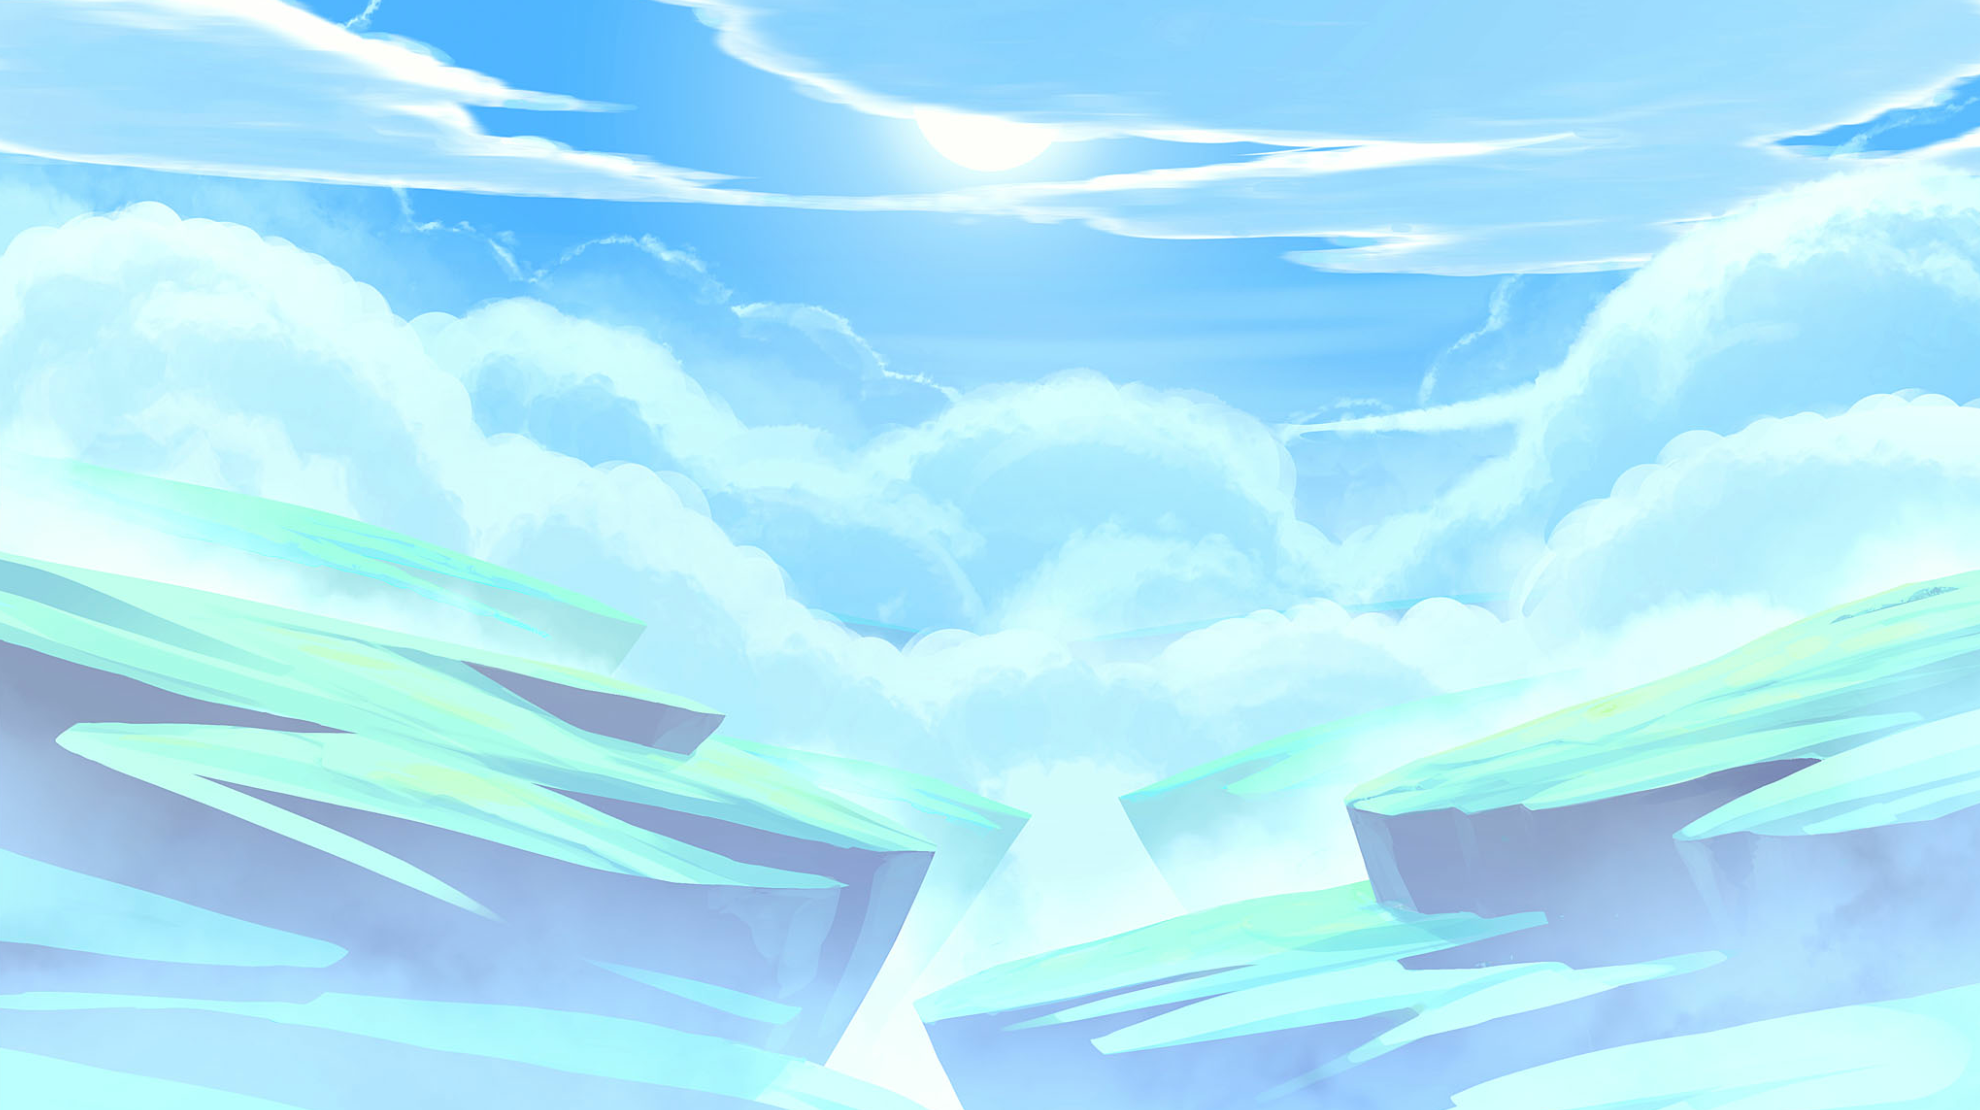
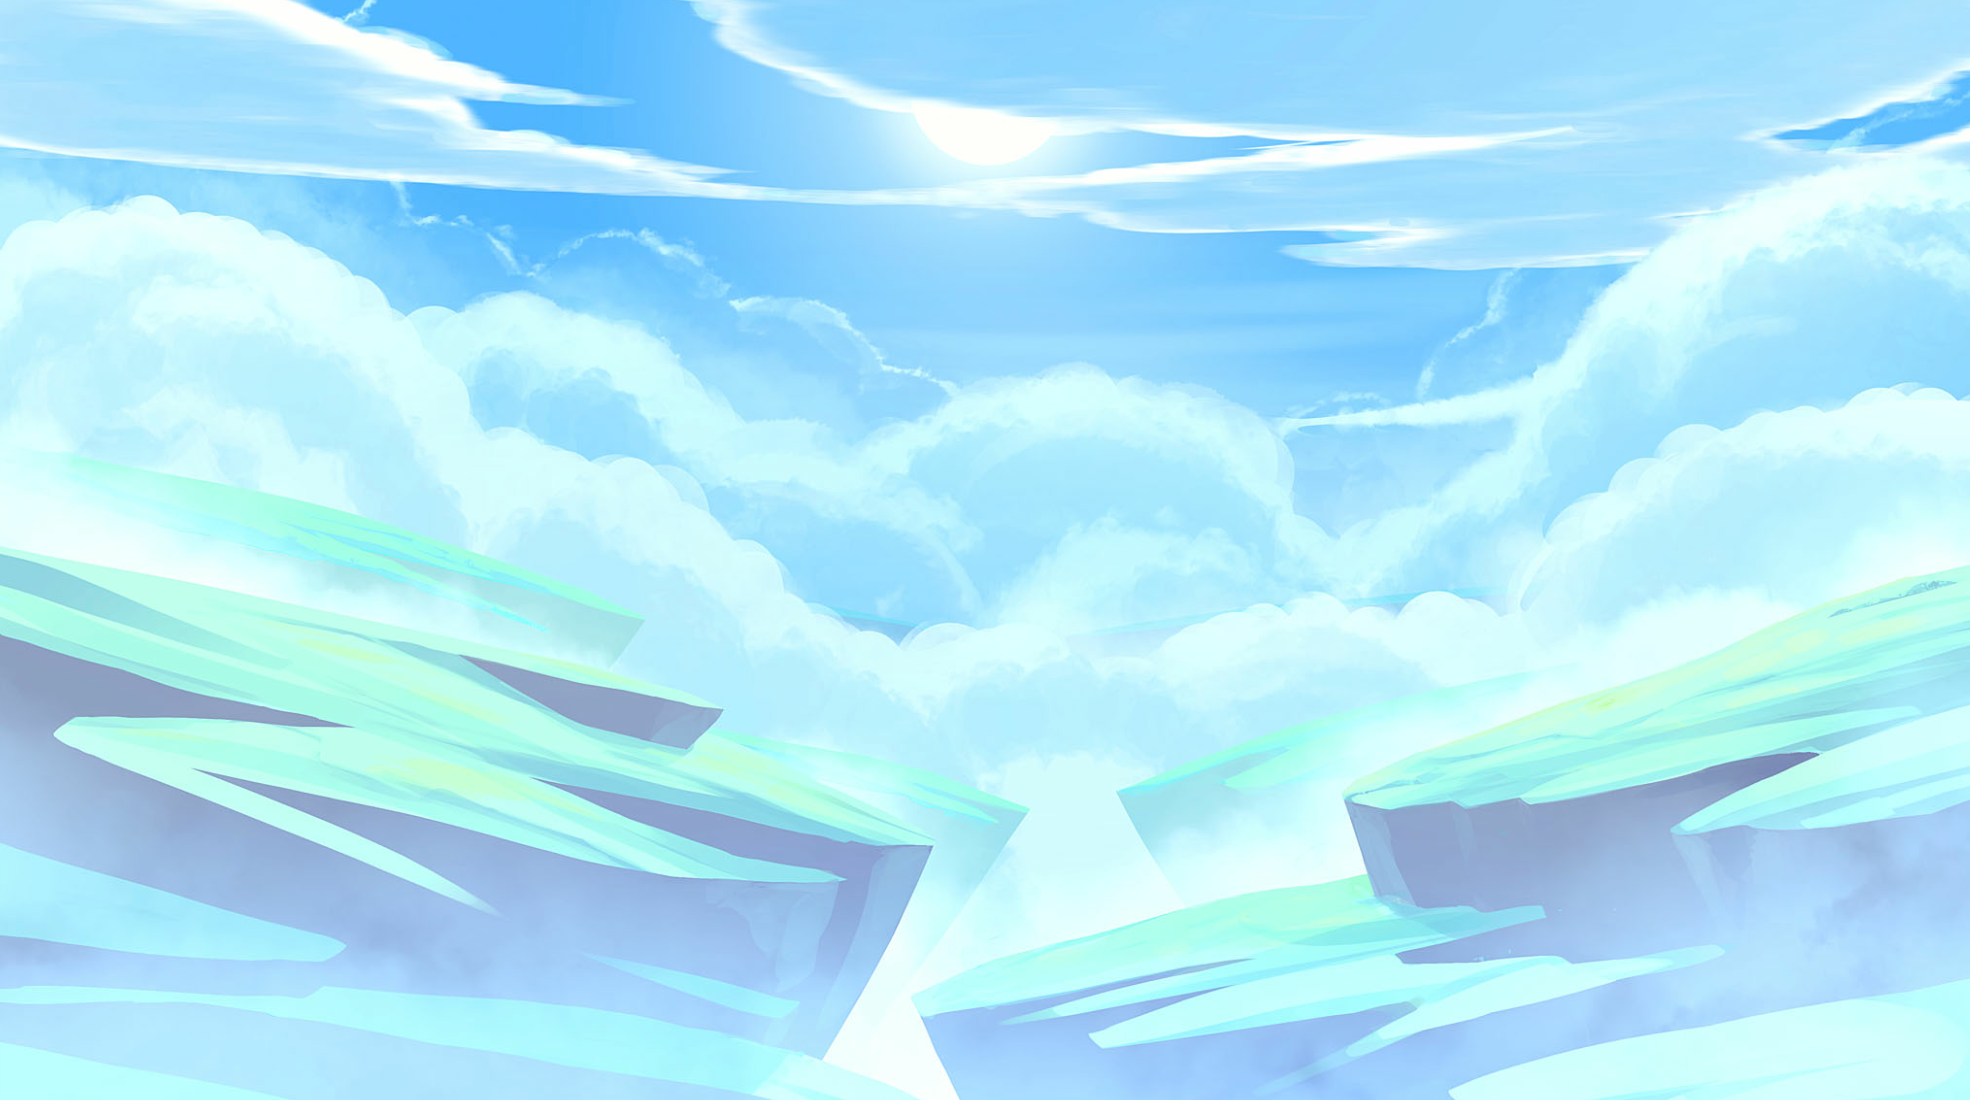
add platform class

diff --git a/core/src/com/platformer/game/MyGame.java b/core/src/com/platformer/game/MyGame.java
@@ -8,22 +8,15 @@ import com.badlogic.gdx.graphics.g2d.Animation;
 import com.badlogic.gdx.graphics.g2d.SpriteBatch;
 import com.badlogic.gdx.graphics.g2d.TextureRegion;
 import com.badlogic.gdx.utils.ScreenUtils;
+import com.platformer.game.models.Platform;
 
 public class MyGame extends ApplicationAdapter {
 
     public final static int CHARACTER_WIDTH = 64;
     public final static int CHARACTER_HEIGHT = 64;
-    // Game constants
-    public final static int MAP_SIDE = 19;
-    public final static int MAP_CENTER = MAP_SIDE / 2;
     public final static int BACKGROUND_TILE_WIDTH = 16;
-    public final static int BACKGROUND_TILE_HEIGHT = 16;
-    public final static int MAP_CELL_TILE_COUNT_X = 4;
-    public final static int MAP_CELL_TILE_COUNT_Y = 3;
-    public final static int MAP_CELL_WIDTH = MAP_CELL_TILE_COUNT_X * BACKGROUND_TILE_WIDTH;
-    public final static int MAP_CELL_HEIGHT = MAP_CELL_TILE_COUNT_Y * BACKGROUND_TILE_HEIGHT;
-    private final static int PLATFORM_WIDTH = 465;
-    private final static int PLATFORM_HEIGHT = 172;
+    private final static int PLATFORM_WIDTH = 1978;
+    private final static int PLATFORM_HEIGHT = 897;
     private final float CHARACTER_SPEED = 150f;
     private final float CHARACTER_ANIM_SPEED = .1f;
     private final int DIRECTIONS = 4;
@@ -57,32 +50,42 @@ public class MyGame extends ApplicationAdapter {
 
     private Texture backgroundTexture;
 
-    @Override
-    public void create() {
+    private int anim = -1;
+    private float newPlatformHeight;
+    private float newPlatformWidth;
+
+    private Platform p;
+
+    private void loadTextures() {
         txCharacter = new Texture("character.png");
         txrCharacterTiles = TextureRegion.split(txCharacter, CHARACTER_WIDTH, CHARACTER_HEIGHT);
+        txPlatform = new Texture("platform.png");
+        txrPlatformTiles = TextureRegion.split(txPlatform, PLATFORM_WIDTH, PLATFORM_HEIGHT);
+        backgroundTexture = new Texture("background.png");
+    }
 
+    private void createAnimations() {
         animCharacter = new Animation[DIRECTIONS];
         for (int i = 0; i < animCharacter.length; i++) {
-            animCharacter[i] = new Animation<TextureRegion>(CHARACTER_ANIM_SPEED, txrCharacterTiles[i]);
+            animCharacter[i] = new Animation<>(CHARACTER_ANIM_SPEED, txrCharacterTiles[i]);
         }
 
-        txPlatform = new Texture("platforme.png");
-        txrPlatformTiles = TextureRegion.split(txPlatform, PLATFORM_WIDTH, PLATFORM_HEIGHT);
         animPlatform = new Animation[PLATFORME_FRAME];
         for (int i = 0; i < animPlatform.length; i++) {
-            animPlatform[i] = new Animation<TextureRegion>(PLATFORM_ANIM_SPEED, txrPlatformTiles[i]);
+            animPlatform[i] = new Animation<>(PLATFORM_ANIM_SPEED, txrPlatformTiles[i]);
         }
-
-        backgroundTexture = new Texture("background.png");
-
-        batch = new SpriteBatch();
     }
 
     @Override
-    public void render() {
-        ScreenUtils.clear(0, 0, 0, 1);
+    public void create() {
+        loadTextures();
+        createAnimations();
 
+        p = new Platform("platform.png", PLATFORM_WIDTH, PLATFORM_HEIGHT, 10, 25, 25);
+        batch = new SpriteBatch();
+    }
+
+    private void updateCharacter(float dt) {
         int dx = 0;
 
         if (Gdx.input.isKeyPressed(LEFT_KEY) || Gdx.input.isKeyPressed(RIGHT_KEY))
@@ -98,8 +101,7 @@ public class MyGame extends ApplicationAdapter {
             velocityY = JUMP_SPEED;
         }
 
-        int anim = -1;
-        float dt = Gdx.graphics.getDeltaTime();
+        anim = -1;
 
         // Apply gravity and fast fall force
         float gravityForce = GRAVITY;
@@ -129,51 +131,70 @@ public class MyGame extends ApplicationAdapter {
 
         time += dt;
 
-        // Update platform animation state
-        platformAnimTime += dt;
-
-        float screenWidth = Gdx.graphics.getWidth();
-        float screenHeight = Gdx.graphics.getHeight();
-
-        batch.begin();
-
-        batch.draw(backgroundTexture, 0, 0, screenWidth, screenHeight);
-
-        // Render the animated platform
-        TextureRegion txrCurrentPlatform = animPlatform[(int) (platformAnimTime / PLATFORM_ANIM_SPEED) % PLATFORME_FRAME].getKeyFrame(platformAnimTime, true);
-        float newPlatformWidth = (float) PLATFORM_WIDTH / 2;
-        float newPlatformHeight = (float) PLATFORM_HEIGHT / 2;
-        platformX = (Gdx.graphics.getWidth() - newPlatformWidth) / 2;
-        platformY = (float) Gdx.graphics.getHeight() / 2 - newPlatformHeight;
-        batch.draw(txrCurrentPlatform, platformX, platformY, newPlatformWidth, newPlatformHeight);
-
-        // Render the character
-        TextureRegion txrCharacter = anim < 0 ? txrCharacterTiles[stop][0] : animCharacter[stop = anim].getKeyFrame(time, true);
-
-        batch.draw(txrCharacter, characterX - (float) BACKGROUND_TILE_WIDTH / 2, characterY);
-
-        batch.end();
-
         // Check if the character is on the platform
         boolean isCharRightOfPlatformLeftEdge = characterX + CHARACTER_WIDTH > platformX + 20;
         boolean isCharLeftOfPlatformRightEdge = characterX < platformX + newPlatformWidth - 10;
         boolean isCharAbovePlatformBottomEdge = characterY <= platformY + newPlatformHeight;
         boolean isCharBelowPlatformTopEdge = characterY + CHARACTER_HEIGHT >= platformY;
-        boolean wasCharAbovePlatformTopEdge = characterY - Math.abs(velocityY * dt) + CHARACTER_HEIGHT < platformY;
 
-        if (isCharRightOfPlatformLeftEdge &&
-                isCharLeftOfPlatformRightEdge &&
-                isCharAbovePlatformBottomEdge &&
-                isCharBelowPlatformTopEdge &&
-                velocityY <= 0) {
+        if (isCharRightOfPlatformLeftEdge && isCharLeftOfPlatformRightEdge && isCharAbovePlatformBottomEdge && isCharBelowPlatformTopEdge && velocityY <= 0) {
             characterY = platformY + newPlatformHeight;
             isJumping = false;
             velocityY = 0;
             jumpCount = 0;
         }
 
+        if (p.isCharacterOnIt(characterX, characterY, CHARACTER_WIDTH, CHARACTER_HEIGHT)) {
+            characterY = p.getPercentToLeft() + p.getHeight();
+            isJumping = false;
+            velocityY = 0;
+            jumpCount = 0;
+        }
     }
 
+
+    private void renderBackground() {
+        float screenWidth = Gdx.graphics.getWidth();
+        float screenHeight = Gdx.graphics.getHeight();
+        batch.draw(backgroundTexture, 0, 0, screenWidth, screenHeight);
+    }
+
+    private void renderPlatformA(float dt) {
+        platformAnimTime += dt;
+        TextureRegion txrCurrentPlatform = animPlatform[(int) (platformAnimTime / PLATFORM_ANIM_SPEED) % PLATFORME_FRAME].getKeyFrame(platformAnimTime, true);
+        newPlatformWidth = (float) PLATFORM_WIDTH / 10;
+        newPlatformHeight = (float) PLATFORM_HEIGHT / 10;
+        platformX = (Gdx.graphics.getWidth() - newPlatformWidth) / 2;
+        platformY = (float) Gdx.graphics.getHeight() / 2 - newPlatformHeight;
+        batch.draw(txrCurrentPlatform, platformX, platformY, newPlatformWidth, newPlatformHeight);
+    }
+
+    private void renderPlatformB(float dt) {
+        platformAnimTime += dt;
+        p.render(batch, platformAnimTime);
+    }
+
+    private void renderCharacter() {
+        TextureRegion txrCharacter = anim < 0 ? txrCharacterTiles[stop][0] : animCharacter[stop = anim].getKeyFrame(time, true);
+        batch.draw(txrCharacter, characterX - (float) BACKGROUND_TILE_WIDTH / 2, characterY);
+    }
+
+    @Override
+    public void render() {
+        ScreenUtils.clear(0, 0, 0, 1);
+        float dt = Gdx.graphics.getDeltaTime();
+
+        updateCharacter(dt);
+
+        batch.begin();
+
+        renderBackground();
+        renderPlatformA(dt);
+        renderPlatformB(dt);
+        renderCharacter();
+
+        batch.end();
+    }
 
     @Override
     public void dispose() {

diff --git a/core/src/com/platformer/game/models/Platform.java b/core/src/com/platformer/game/models/Platform.java
@@ -1,0 +1,68 @@
+package com.platformer.game.models;
+
+import com.badlogic.gdx.Gdx;
+import com.badlogic.gdx.graphics.Texture;
+import com.badlogic.gdx.graphics.g2d.Animation;
+import com.badlogic.gdx.graphics.g2d.SpriteBatch;
+import com.badlogic.gdx.graphics.g2d.TextureRegion;
+
+public class Platform {
+    private final int PLATFORME_FRAME = 5;
+    private final float PLATFORM_ANIM_SPEED = .3f;
+    private final float width;
+    private final float height;
+    private final float percentToBottom;
+    private final float percentToLeft;
+    private TextureRegion txrCurrentPlatform;
+    private final Animation<TextureRegion>[] animPlatform;
+    private final Texture txPlatform;
+    private final TextureRegion[][] txrPlatformTiles;
+
+    public Platform(String fileName, int width, int height, int scale, int x, int y) {
+        if (fileName == null) {
+            throw new IllegalArgumentException("fileName cannot be null");
+        }
+
+        if (width <= 0 || height <= 0 || scale <= 0 || x < 0 || y < 0) {
+            throw new IllegalArgumentException("width, height, scale, x, y cannot be less than 0");
+        }
+
+        txPlatform = new Texture(fileName);
+        txrPlatformTiles = TextureRegion.split(txPlatform, width, height);
+
+        this.animPlatform = new Animation[PLATFORME_FRAME];
+        for (int i = 0; i < animPlatform.length; i++) {
+            animPlatform[i] = new Animation<>(PLATFORM_ANIM_SPEED, txrPlatformTiles[i]);
+        }
+
+        this.width = ((float) width / scale);
+        this.height = ((float) height / scale);
+        this.percentToBottom = (Gdx.graphics.getWidth() - this.width) / 100 * x;
+        this.percentToLeft = (float) (Gdx.graphics.getHeight() / 100 * y) - this.height;
+    }
+
+    public void render(SpriteBatch batch, float time) {
+        TextureRegion txrCurrentPlatform = animPlatform[(int) (time / PLATFORM_ANIM_SPEED) % PLATFORME_FRAME].getKeyFrame(time, true);
+        batch.draw(txrCurrentPlatform, this.percentToBottom, this.percentToLeft, this.width, this.height);
+    }
+
+    public float getWidth() {
+        return width;
+    }
+
+    public float getHeight() {
+        return height;
+    }
+
+    public float getPercentToBottom() {
+        return percentToBottom;
+    }
+
+    public float getPercentToLeft() {
+        return percentToLeft;
+    }
+
+    public boolean isCharacterOnIt(float characterX, float characterY, float characterWidth, float characterHeight) {
+        return characterX + characterWidth > this.percentToBottom + 20 && characterX < this.percentToBottom + this.width - 10 && characterY <= this.percentToLeft + this.height && characterY + characterHeight >= this.percentToLeft;
+    }
+}

diff --git a/desktop/src/com/platformer/game/DesktopLauncher.java b/desktop/src/com/platformer/game/DesktopLauncher.java
@@ -9,6 +9,8 @@ public class DesktopLauncher {
 	public static void main (String[] arg) {
 		Lwjgl3ApplicationConfiguration config = new Lwjgl3ApplicationConfiguration();
 		config.setForegroundFPS(60);
+		config.setWindowedMode(1200, 800);
+		config.setResizable(false);
 		config.setTitle("Platformer");
 		new Lwjgl3Application(new MyGame(), config);
 	}
